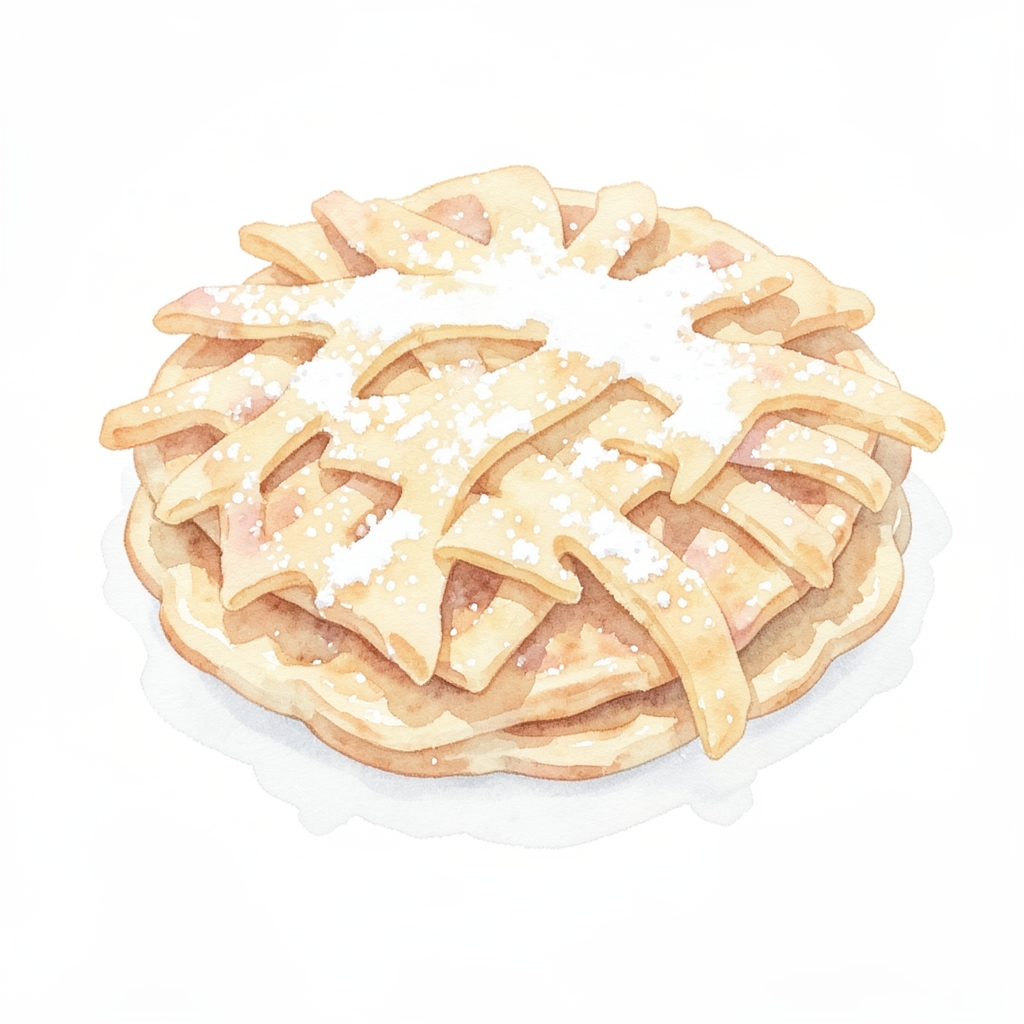
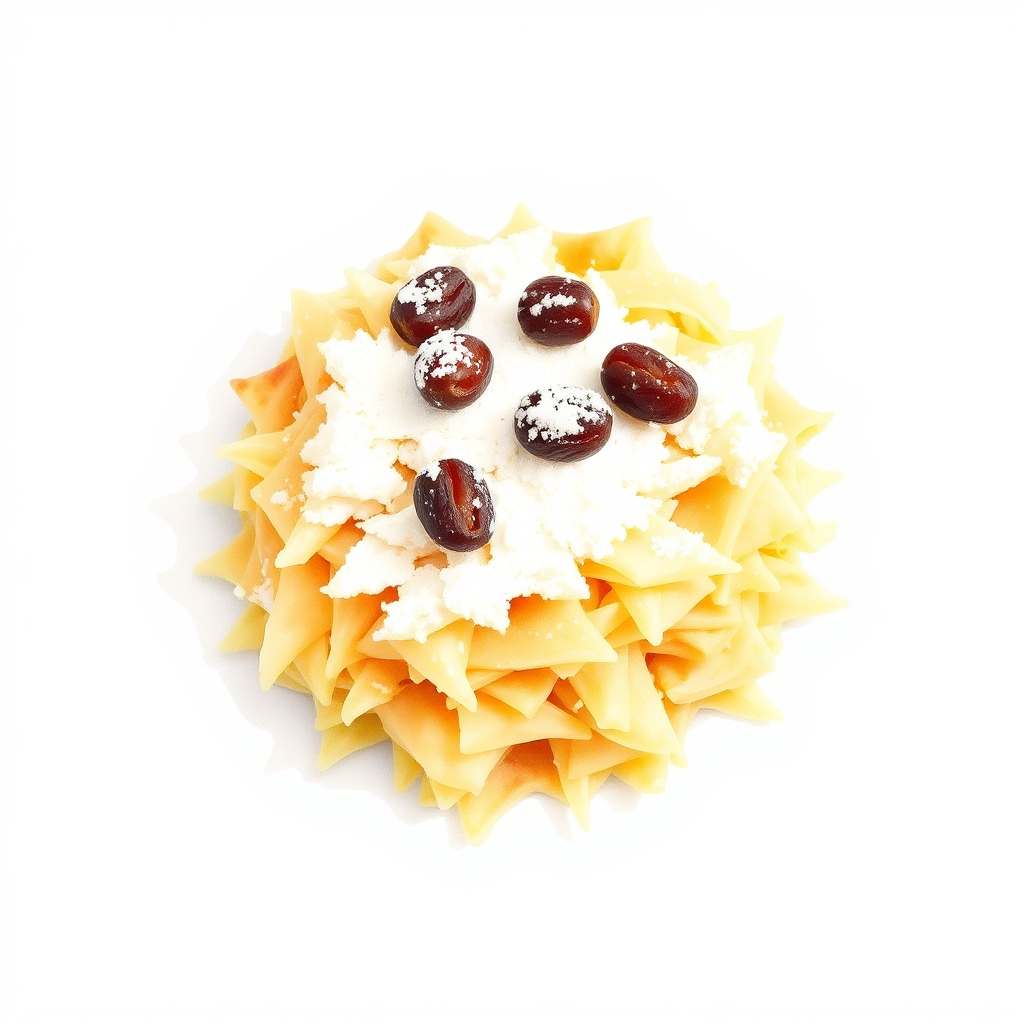
Layout: kompaktere Karten, optisch saubere Titelbox, intakte Hinweis-Box
Template (templates/card.typ):
- Titelbox: top/bottom-edge auf "bounds" + symmetrisches Padding → optisch
  gleicher Abstand über Versalien und unter Unterlängen (g/p)
- Vorder- und Rückseite kompakter (Abstände, Panel-Inset, Listenabstände),
  damit auch lange Zutatenlisten/Schritte sicher auf je eine Seite passen
- Hinweis-Box als unteilbarer Block: rückt als Ganzes in die nächste Spalte
  und nutzt den rechten Platz, statt mitten im Kasten zu splitten

Rezepte:
- neu: recipes/3 backen/dampfnudeln-nach-omas-rezept.md (+ Aquarell)
- aktualisiert: Kaiserschmarrn, Vegane Waffeln

diff --git a/recipes/3 backen/dampfnudeln-nach-omas-rezept.md b/recipes/3 backen/dampfnudeln-nach-omas-rezept.md
@@ -1,0 +1,58 @@
+---
+title: Dampfnudeln nach Omas Rezept
+tags:
+  - Hefeteig
+  - Klassiker
+  - Süßspeise
+category: backen
+grouping:
+prep_time: 30
+cook_time: 15
+rest_time: 2:00
+servings:
+equipment:
+  - Große Schüssel
+  - Handrührgerät mit Knethaken
+  - Sauberes Küchentuch
+  - Bemehltes Brett
+  - Hochwandige Pfannen mit Glasdeckel
+  - Pfannenwender
+  - Kuchengitter
+difficulty: medium
+source_url:
+theme_color:
+image_subject: germknödel with a golden salty crust
+last_modified: 2026-05-24
+---
+# Dampfnudeln nach Omas Rezept
+
+## Zutaten
+
+### Für den Teig
+- 500 g Weizenmehl (gesiebt)
+- 75 g Zucker
+- 1 Ei (Gr. M)
+- 75 g Butter
+- 1 Würfel frische Hefe
+- 1 gestrichener TL Salz
+- 200 ml Vollmilch
+- etwas Mehl für die Arbeitsfläche
+
+### Zum Braten & Dämpfen
+- 6 gestrichene EL Butterschmalz
+- etwas Salz
+- kaltes Wasser
+
+## Schritte
+1. **Vorteig ansetzen**: Die Hälfte des **Weizenmehls** in eine große Schüssel geben, eine Mulde hineindrücken und die **frische Hefe** hineinkrümeln. **1 EL Zucker** und ca. **3 EL Milch** dazugeben und in der Mulde verrühren. Abgedeckt an einem warmen Ort ca. **15 Minuten** gehen lassen, bis sich Bläschen bilden.
+2. **Teig mischen**: Den Vorteig mit den Knethaken des Handrührgeräts verrühren. Den restlichen **Zucker**, das **Ei** und die **Butter** hinzufügen und gründlich einarbeiten.
+3. **Mehl und Milch einarbeiten**: Das restliche **Mehl** in zwei Portionen darübersieben und unterkneten. Die restliche **Milch** nach und nach sowie das **Salz** hinzufügen und alles gründlich verkneten.
+4. **Teig gehen lassen**: Den Teig einige Minuten kneten (am besten zum Schluss von Hand), bis er homogen ist. Zu einer Kugel formen, abdecken und an einem warmen Ort ca. **1 Stunde** gehen lassen, bis sich das Volumen deutlich vergrößert hat.
+5. **Formen**: Den Teig auf einer leicht bemehlten Fläche kurz durchkneten und falten. Damenfaustgroße Kugeln formen, dabei die Oberfläche glatt nach unten ziehen. Auf einem bemehlten Brett abgedeckt weitere **30 bis 45 Minuten** gehen lassen.
+6. **Anbraten**: Zwei bis drei hochwandige Pfannen stark erhitzen. Je Pfanne etwas **Butterschmalz** schmelzen und ca. **1/2 EL Salz** gleichmäßig einstreuen. Die Dampfnudeln mit der glatten Seite nach oben mit etwas Abstand hineinsetzen.
+7. **Dämpfen**: Vorsichtig kaltes **Wasser** vom Rand her eingießen, bis es ca. **1 cm** hoch steht. Sofort den Glasdeckel aufsetzen und die Hitze auf mittlere Stufe reduzieren.
+8. **Fertigstellen**: Die Dampfnudeln ca. **15 Minuten** garen lassen. Danach den Deckel zügig abnehmen, die Dampfnudeln mit einem Pfannenwender herausheben und auf einem Kuchengitter lauwarm oder heiß servieren.
+
+## Hinweise
+- Den Deckel während des Dämpfens keinesfalls öffnen, da die Dampfnudeln sonst in sich zusammenfallen.
+- Alle Zutaten für den Hefeteig sollten vor der Verarbeitung Zimmertemperatur haben.

diff --git a/recipes/6 desserts/Vegane Waffeln 🧇.md b/recipes/6 desserts/Vegane Waffeln 🧇.md
@@ -24,11 +24,11 @@ last_modified: 2025-10-20
 
 - ½ Würfel Hefe  
 - 200 g Zucker  
-- 400 ml Mandelmilch *(alternativ 200 ml Hafermilch)*  
-- 200 g vegane Margarine *(weich oder zerlassen)*  
+- 400 ml Mandelmilch (alternativ 200 ml Hafermilch)
+- 200 g vegane Margarine (weich oder zerlassen)
 - 2 EL Vanillezucker  
 - 400 g Mehl  
-- 100 ml Club-Mate *(alternativ 100 ml Sprudel)*  
+- 100 ml Club-Mate (alternativ 100 ml Sprudel)
 - 1 TL Salz  
 
 ## Schritte
@@ -48,4 +48,3 @@ last_modified: 2025-10-20
 ## Versionshistory
 - 2025-10-20: Erstellt
 
-<!-- MARKER FOR MAPPER SCRIPT -->

diff --git a/recipes/3 backen/kaiserschmarrn-tiroler-landgasthofrezept.md b/recipes/3 backen/kaiserschmarrn-tiroler-landgasthofrezept.md
@@ -18,7 +18,7 @@ equipment:
 difficulty: medium
 source_url: https://www.chefkoch.de/rezepte/1031841208350942/Kaiserschmarrn-Tiroler-Landgasthofrezept.html
 theme_color:
-image_subject: a plate of fluffy shredded Kaiserschmarrn pancakes dusted with powdered sugar
+image_subject: a plate of fluffy shredded austrian Kaiserschmarrn topped with powdered sugar and raisins
 last_modified: 2026-05-24
 ---
 # Kaiserschmarrn - Tiroler Landgasthofrezept